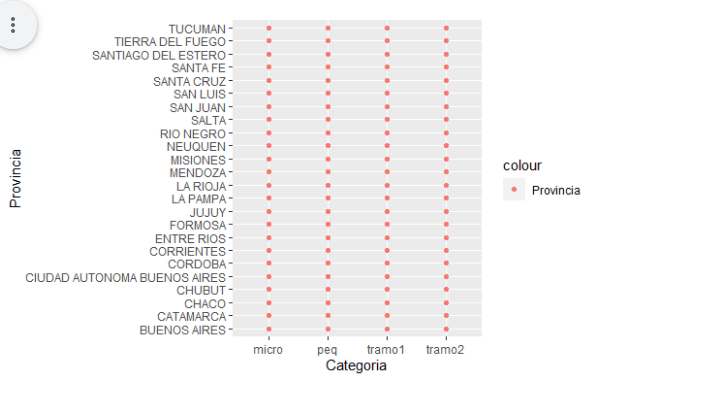
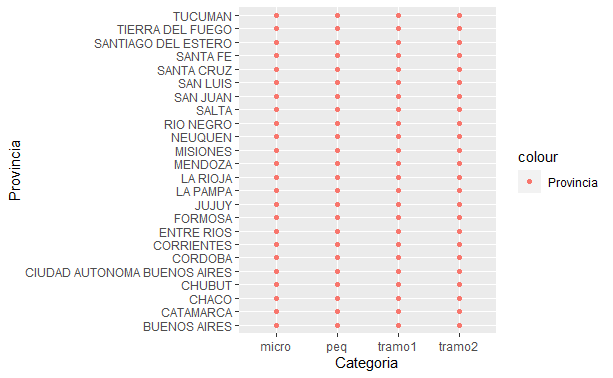
Add more plots and code

diff --git a/docs/cohorte2021.html b/docs/cohorte2021.html
@@ -283,8 +283,8 @@ $(document).ready(function () {
 <div id="trabajos-finales" class="section level2">
 <h2>Trabajos finales</h2>
 <p>Trabajos finales utilizando Tableau o RMarkdown y ggplot2.</p>
-<div id="htmlwidget-83676c34c5484fe69bcb" style="width:100%;height:auto;" class="datatables html-widget"></div>
-<script type="application/json" data-for="htmlwidget-83676c34c5484fe69bcb">{"x":{"filter":"none","data":[["1","2","3","4","5","6","7","8","9","10","11","12","13","14"],["Empleo y Género (Banco Mundial)","Encuesta Permanente de Hogares","Encuesta Permanente de Hogares","Encuesta Nacional de Hogares","Exportaciones certificadas de soja SENASA","Programa Punto Digital","Monitor de vacunación COVID-19 en la ciudad de Corrientes","COVID-19 en CABA","COVID-19 - Chubut","Estimaciones Agrícolas del Ministerio de agricultura, ganadería y pesca","Ecobicis Buenos Aires","Hablemos de Todo","Contratos de alquiler del estado","Vinos"],["<a href=https://data-viz-r.netlify.app/>https://data-viz-r.netlify.app/<\/a>","<a href=https://ephybrechas.netlify.app/>https://ephybrechas.netlify.app/<\/a>","<a href=https://ingresos-genero-desigualdades.netlify.app/>https://ingresos-genero-desigualdades.netlify.app/<\/a>","<a href=https://trabajovisualizacion.netlify.app/>https://trabajovisualizacion.netlify.app/<\/a>","<a href=https://vibrant-wozniak-6e07cd.netlify.app/>https://vibrant-wozniak-6e07cd.netlify.app/<\/a>","<a href=https://public.tableau.com/app/profile/ana.clara.suiffet/viz/ResumenPuntosDigitales/ResumenPuntosDigitales?publish=yes>https://public.tableau.com/app/profile/ana.clara.suiffet/viz/ResumenPuntosDigitales/ResumenPuntosDigitales?publish=yes<\/a>","<a href=https://public.tableau.com/views/Trabajopracticofinalvisualizacion/MonitordevacunacinporCovid-19enlaCiudaddeCorrientes?:language=en-US&publish=yes&:display_count=n&:origin=viz_share_link>https://public.tableau.com/views/Trabajopracticofinalvisualizacion/MonitordevacunacinporCovid-19enlaCiudaddeCorrientes?:language=en-US&publish=yes&:display_count=n&:origin=viz_share_link<\/a>","<a href=https://tp-visualizacion-lindenboim-lucena.netlify.app/>https://tp-visualizacion-lindenboim-lucena.netlify.app/<\/a>","<a href=https://diplounab-chubut.netlify.app/>https://diplounab-chubut.netlify.app/<\/a>","<a href=https://agitated-easley-c144bb.netlify.app/>https://agitated-easley-c144bb.netlify.app/<\/a>","<a href=https://ecobicibuenosaires.netlify.app/>https://ecobicibuenosaires.netlify.app/<\/a>","<a href=https://public.tableau.com/app/profile/nicolas7443/viz/HDTNicolsNatali/Dashboard1?publish=yes>https://public.tableau.com/app/profile/nicolas7443/viz/HDTNicolsNatali/Dashboard1?publish=yes<\/a>","<a href=https://public.tableau.com/views/TPFINALVISUALIZACIONES/VISUALIZACIONES?:language=es-ES&publish=yes&:display_count=n&:origin=viz_share_link>https://public.tableau.com/views/TPFINALVISUALIZACIONES/VISUALIZACIONES?:language=es-ES&publish=yes&:display_count=n&:origin=viz_share_link<\/a>","<a href=https://public.tableau.com/app/profile/edgardosandoval/viz/VinosSand/Dashboard1>https://public.tableau.com/app/profile/edgardosandoval/viz/VinosSand/Dashboard1<\/a>"],["Couto, Aramburu, Araujo","Juan Videla y Juan Pablo Costa","Nicole Moscovich","Marcela Almeida","Alexander Sothmann,Luciano Tincani, Sara Reidel, Pamela Sarco","Ana Clara Suiffet","Bianca Vallejos\n","Erika D. Lucena, Irene L. Lindenboim","Federico Santoro","Yanil Hepp","Marcelo Perazzo - Paula D’Alessandro","Nicolás Natali","Noelia Andrada","Edgardo Sandoval"]],"container":"<table class=\"display\">\n  <thead>\n    <tr>\n      <th> <\/th>\n      <th>Base de datos seleccionada<\/th>\n      <th>Link al trabajo final<\/th>\n      <th>Autores/as<\/th>\n    <\/tr>\n  <\/thead>\n<\/table>","options":{"order":[],"autoWidth":false,"orderClasses":false,"columnDefs":[{"orderable":false,"targets":0}]}},"evals":[],"jsHooks":[]}</script>
+<div id="htmlwidget-de232b16c58ab77d30b2" style="width:100%;height:auto;" class="datatables html-widget"></div>
+<script type="application/json" data-for="htmlwidget-de232b16c58ab77d30b2">{"x":{"filter":"none","data":[["1","2","3","4","5","6","7","8","9","10","11","12","13","14"],["Empleo y Género (Banco Mundial)","Encuesta Permanente de Hogares","Encuesta Permanente de Hogares","Encuesta Nacional de Hogares","Exportaciones certificadas de soja SENASA","Programa Punto Digital","Monitor de vacunación COVID-19 en la ciudad de Corrientes","COVID-19 en CABA","COVID-19 - Chubut","Estimaciones Agrícolas del Ministerio de agricultura, ganadería y pesca","Ecobicis Buenos Aires","Hablemos de Todo","Contratos de alquiler del estado","Vinos"],["<a href=https://data-viz-r.netlify.app/>https://data-viz-r.netlify.app/<\/a>","<a href=https://ephybrechas.netlify.app/>https://ephybrechas.netlify.app/<\/a>","<a href=https://ingresos-genero-desigualdades.netlify.app/>https://ingresos-genero-desigualdades.netlify.app/<\/a>","<a href=https://trabajovisualizacion.netlify.app/>https://trabajovisualizacion.netlify.app/<\/a>","<a href=https://vibrant-wozniak-6e07cd.netlify.app/>https://vibrant-wozniak-6e07cd.netlify.app/<\/a>","<a href=https://public.tableau.com/app/profile/ana.clara.suiffet/viz/ResumenPuntosDigitales/ResumenPuntosDigitales?publish=yes>https://public.tableau.com/app/profile/ana.clara.suiffet/viz/ResumenPuntosDigitales/ResumenPuntosDigitales?publish=yes<\/a>","<a href=https://public.tableau.com/views/Trabajopracticofinalvisualizacion/MonitordevacunacinporCovid-19enlaCiudaddeCorrientes?:language=en-US&publish=yes&:display_count=n&:origin=viz_share_link>https://public.tableau.com/views/Trabajopracticofinalvisualizacion/MonitordevacunacinporCovid-19enlaCiudaddeCorrientes?:language=en-US&publish=yes&:display_count=n&:origin=viz_share_link<\/a>","<a href=https://tp-visualizacion-lindenboim-lucena.netlify.app/>https://tp-visualizacion-lindenboim-lucena.netlify.app/<\/a>","<a href=https://diplounab-chubut.netlify.app/>https://diplounab-chubut.netlify.app/<\/a>","<a href=https://agitated-easley-c144bb.netlify.app/>https://agitated-easley-c144bb.netlify.app/<\/a>","<a href=https://ecobicibuenosaires.netlify.app/>https://ecobicibuenosaires.netlify.app/<\/a>","<a href=https://public.tableau.com/app/profile/nicolas7443/viz/HDTNicolsNatali/Dashboard1?publish=yes>https://public.tableau.com/app/profile/nicolas7443/viz/HDTNicolsNatali/Dashboard1?publish=yes<\/a>","<a href=https://public.tableau.com/views/TPFINALVISUALIZACIONES/VISUALIZACIONES?:language=es-ES&publish=yes&:display_count=n&:origin=viz_share_link>https://public.tableau.com/views/TPFINALVISUALIZACIONES/VISUALIZACIONES?:language=es-ES&publish=yes&:display_count=n&:origin=viz_share_link<\/a>","<a href=https://public.tableau.com/app/profile/edgardosandoval/viz/VinosSand/Dashboard1>https://public.tableau.com/app/profile/edgardosandoval/viz/VinosSand/Dashboard1<\/a>"],["Couto, Aramburu, Araujo","Juan Videla y Juan Pablo Costa","Nicole Moscovich","Marcela Almeida","Alexander Sothmann,Luciano Tincani, Sara Reidel, Pamela Sarco","Ana Clara Suiffet","Bianca Vallejos\n","Erika D. Lucena, Irene L. Lindenboim","Federico Santoro","Yanil Hepp","Marcelo Perazzo - Paula D’Alessandro","Nicolás Natali","Noelia Andrada","Edgardo Sandoval"]],"container":"<table class=\"display\">\n  <thead>\n    <tr>\n      <th> <\/th>\n      <th>Base de datos seleccionada<\/th>\n      <th>Link al trabajo final<\/th>\n      <th>Autores/as<\/th>\n    <\/tr>\n  <\/thead>\n<\/table>","options":{"order":[],"autoWidth":false,"orderClasses":false,"columnDefs":[{"orderable":false,"targets":0}]}},"evals":[],"jsHooks":[]}</script>
 </div>
 <div id="concurso-el-gráfico-más-feo-por-orden-alfabético" class="section level2">
 <h2>Concurso el gráfico más feo (por orden alfabético)</h2>
@@ -421,7 +421,10 @@ grafico_final &lt;- ggdraw(grafico_1) +
 grafico_final
 
 ggsave(&quot;grafico_final.jpg&quot;, width = 7, height = 4)</code></pre>
-<p><img src="plots_2021/bianca_vallejos_plot.png" /> ### Erika Lucena</p>
+<p><img src="plots_2021/bianca_vallejos_plot.png" /></p>
+</div>
+<div id="erika-lucena" class="section level3">
+<h3>Erika Lucena</h3>
 <pre class="r"><code>library(datos)
 library(readr)
 library(dplyr)
@@ -450,6 +453,94 @@ grafico_feo &lt;- diamantes %&gt;%
 grafico_feo </code></pre>
 <p><img src="plots_2021/Erika_Lucena_plot.png" /></p>
 </div>
+<div id="facundo-monti" class="section level3">
+<h3>Facundo Monti</h3>
+<pre class="r"><code>ggplot(empresas, aes(x = Categoria, y = Provincia)) +
+  geom_point(aes(color = &quot;Provincia&quot;))</code></pre>
+<p><img src="plots_2021/Facundo_Monti_plot.png" /></p>
+</div>
+<div id="federico-aramburu" class="section level3">
+<h3>Federico Aramburu</h3>
+<pre class="r"><code>library(tidyverse)
+library(ggplot2)
+
+# Homero
+homero &lt;- tibble (x= c(3.7,3.5,3.32,3.8,4.4,4.6,5.0,4.6,3.9,3.6,3.7,3.8,3.82,3.85,3.95,3.82,3.7,3.68,
+                     3.69,3.75,3.82,3.97,3.82,3.75,3.53,3.49,3.52,3.69,3.89,4.2,4.4,4.75,4.9,5.25,5.5,
+                     5.6,5.7,5.78,5.72,5.65,5.52,5.48,5.44,5.35,5.29,5.25,5.16,5.25,5.29,5.35,5.44,
+                     5.48,5.52,5.65,5.72,5.76,5.80,5.85,5.86,5.82,5.72,5.71,5.45,5.25,5.45,5.7095,
+                     5.77,5.755,5.75,5.65,5.78,5.9,5.75,5.5,5.37,5.25,4.95,4.79,4.6,4.65,4.6,4.48),
+                  y= c(1.5,1.47,0.87,0.515,0.23,0.87,0.36,0.87,1.15,1.46,1.38,2,2.51,2.5088,2.5095,2.514,
+                     2.56,2.63,2.85,2.9,2.94,2.90,2.94,2.9,3.65,4.05,4.56,5.1,5.30,5.50,5.55,5.53,5.48,
+                     5.20,4.85,4.55,4.15,4,3.85,3.89,3.91,3.92,3.91,3.88,3.85,3.83,3.75,3.83,3.85,3.88,
+                     3.91,3.92,3.91,3.89,3.85,3.81,3.74,3.65,3.48,3.32,3.18,3.175,3.19,3.20,3.19,3.174,
+                     3.05,2.98,2.87,2.8,2.18,2,1.87,1.74,1.73,1.732,1.75,1.84,2,2.1,2,1.9))
+#82 puntos
+
+oreja &lt;- tibble (a = c(3.75,3.80,3.90,3.80,3.75,3.72 ,rep(NA,76)), 
+                 b = c(2.65,2.75,2.83,2.75,2.83,2.81 ,rep(NA,76)),
+                 m = c(3.5,3.52,3.75,3.85,4 ,rep(NA,77)),
+                 p = c(2.98,3.40,3.08,3.50,3.12 ,rep(NA,77)))
+
+boca &lt;- tibble (bocax= c(5.16,5.45,5.70,5.77,5.755,5.75,5.65,5.50,5.40,5.25,4.8,4.65,4.45,4.32,4.23,
+                         4.22,4.30,4.38,4.5,4.75,4.82,4.9,5.12,5.28,5.32,5.42,5.32,5.28,5.12,5.05,
+                         5.10,5.13,5.2,5.23,5.20,5.52,5.08,5.52,5.50,5.52,5.40,5.19,5.28,rep(NA,39)),
+                bocay= c(3.20,3.19,3.17,3.05,2.98,2.87,2.80,2.81,2.84,2.83,2.75,2.65,2.52,2.25,2.15,
+                         1.84,1.68,1.47,1.25,1.18,1.16,1.19,1.3,1.475,1.53,1.71,1.53,1.475,1.3,1.10,
+                         0.80,0.53,0.45,0.39,0.26,1.01,1.18,1.01,0.99,0.29,0.35,0.365,0.11,rep(NA,39)))
+
+ojos &lt;- tibble (ojox= 4.85,ojoy=3.465,ojox1=4.65,ojoy1=3.42,ojox2=5.4,ojoy2=3.42)
+
+
+lata &lt;- tibble (ll = c(8.5,8.6,9.6,9.5,rep(NA,78)),
+                kk = c(5.5,4.0,4.0,5.5,rep(NA,78)),
+                hh = c(8.53,8.58,9.55,9.5,rep(NA,78)),
+                jj = c(5.2,4.55,4.59,5.24,rep(NA,78)))
+
+homero %&gt;% 
+  ggplot()+
+  geom_path( aes (x, y),size = 0.5, col=&quot;blue2&quot;)+
+  geom_point(aes(ojos$ojox,ojos$ojoy), size=19, pch=1, col=&quot;blue2&quot;)+
+  geom_point(aes(ojos$ojox1,ojos$ojoy1), size = 2)+
+  geom_point(aes(ojos$ojox2,ojos$ojoy2), size = 2)+
+  geom_path( aes (x = oreja$a, y = oreja$b),col=&quot;blue2&quot;) +
+  geom_path( aes (x = oreja$m, y = oreja$p),size=0.6, col= &quot;blue2&quot;) +
+  geom_path( aes (x = boca$bocax, y = boca$bocay),size=0.5, col= &quot;blue2&quot;) +
+  geom_curve(aes(x=4.85, y=5.50, xend=4.15, yend=5.16), size=0.5,
+             color=&quot;blue3&quot;, curvature = 1.3)+
+  geom_curve(aes(x=4.6, y=5.55, xend=3.9, yend=5), size=0.5,
+             color=&quot;blue3&quot;, curvature = 1.3)+
+  geom_polygon(aes(lata$ll,lata$kk), fill=&quot;red&quot;, col=&quot;grey4&quot;,size=0.5)+
+  geom_polygon(aes(lata$hh,lata$jj), fill=&quot;white&quot;, col=&quot;grey4&quot;)+
+  geom_curve(aes(x=8.57, y=3.98, xend=9.61, yend=4.02), size=1.5,
+             color=&quot;darkgrey&quot;, curvature = 0.06)+
+  geom_curve(aes(x=8.5, y=5.48, xend=9.51, yend=5.51), size=1.5,
+             color=&quot;darkgrey&quot;, curvature = -0.04)+
+  geom_text(x = 9, y = 4.9, label =&quot;Duff&quot;,col=&quot;black&quot;,size= 7,angle=2.5)+
+  geom_text(x = 9.1, y = 4.3, label =&quot;BEER&quot;,col=&quot;black&quot;,size= 3.5,angle=2.5)+
+  geom_point(aes(x=9.1,y=4.7), size= 50, pch=1)+
+  geom_point(aes(x=7.3,y=5.4), size= 12, pch=1)+
+  geom_point(aes(x=6.5,y=5.2), size= 8, pch=1)+
+  geom_point(aes(x=5.9,y=5), size= 4, pch=1)+
+  scale_x_continuous(limits = c(0,10), breaks = c(1,2,3,4,5,6,7,8,9,10))+
+  scale_y_continuous(limits = c(0,6), breaks = c(1,2,3,4,5,6))+
+  geom_text(x = 1.5, y = 3, label = &quot;La cerveza es\nla causa y\nsolución\nde todos\nlos problemas&quot;,
+            size=6, angle= 3,col=&quot;green2&quot;)+
+  theme_void()
+
+ ggsave(paste0(&quot;homero&quot;,&quot;.png&quot;))
+ 
+# ***&quot;La cerveza es la causa y solución de todos los problemas&quot;*** - **Homero Simpson**</code></pre>
+<p><img src="plots_2021/Federico_Aramburu_plot.png" /></p>
+</div>
+<div id="federico-gonzalez" class="section level3">
+<h3>Federico Gonzalez</h3>
+<p><img src="plots_2021/Federico_Gonzalez_plot.png" /></p>
+</div>
+<div id="federico-santoro" class="section level3">
+<h3>Federico Santoro</h3>
+<p><img src="plots_2021/Federico_Santoro_plot.png" /></p>
+</div>
 <div id="juan-videla" class="section level3">
 <h3>Juan Videla</h3>
 <p><img src="plots_2021/juan_videla_plot.png" /></p>
@@ -465,19 +556,6 @@ grafico_feo </code></pre>
 <div id="mercedes-araujo" class="section level3">
 <h3>Mercedes Araujo</h3>
 <p><img src="plots_2021/Mercedes_Araujo_plot.png" /></p>
-</div>
-<div id="facundo-monti" class="section level3">
-<h3>Facundo Monti</h3>
-<p><img src="plots_2021/Facundo_Monti_plot.png" /></p>
-</div>
-<div id="federico-aramburu" class="section level3">
-<h3>Federico Aramburu</h3>
-<p><img src="plots_2021/Federico_Aramburu_plot.png" /> ### Federico Gonzalez</p>
-<p><img src="plots_2021/Federico_%20_Gonzalez_plot.png" /></p>
-</div>
-<div id="federico-santoro" class="section level3">
-<h3>Federico Santoro</h3>
-<p><img src="plots_2021/Federico_Santoro_plot.png" /></p>
 </div>
 <div id="hernan-costa" class="section level3">
 <h3>Hernan Costa</h3>
